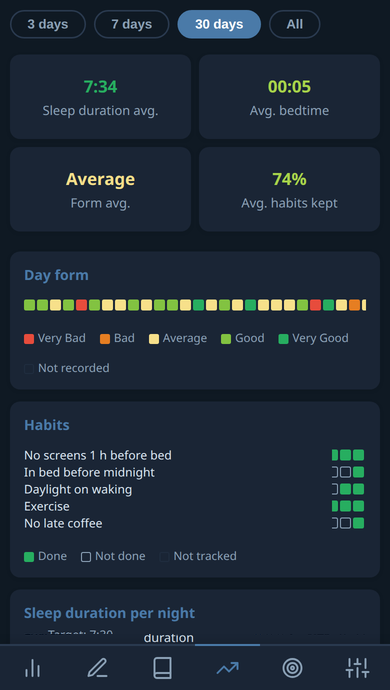
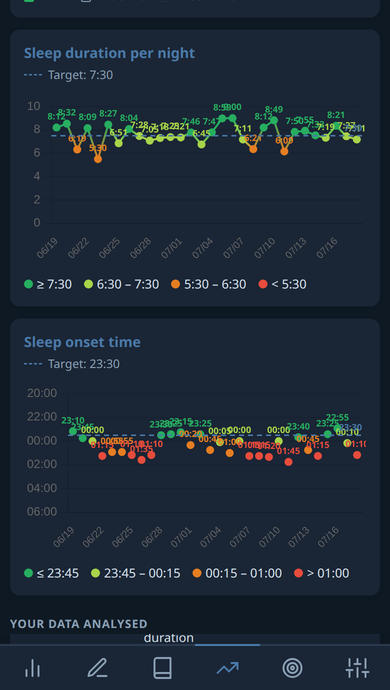
README: show the charts in the Statistics thumbnail, shorten the meerkat line
The thumbnail was cropped from the top of the page, which holds the range
buttons and the summary cards -- the charts start further down and were cut
off. It now frames both dot charts, which is what that tab is for.

Claude-Session: https://claude.ai/code/session_01FQFvFp19TCnSP51ghzrwLx

diff --git a/README.md b/README.md
@@ -103,7 +103,7 @@ Choose a target sleep duration and bedtime; they appear as reference lines on th
 
 You type what happened, and the app does arithmetic on it — that is the whole product.
 
-The one piece of bullsh*t left is the meerkat. It has no function beyond showing at a glance how the last recorded day went, and it is the only thing here that is not strictly useful. It stays.
+The only questionable feature is the meerkat mascot :-)
 
 ## Your data
 